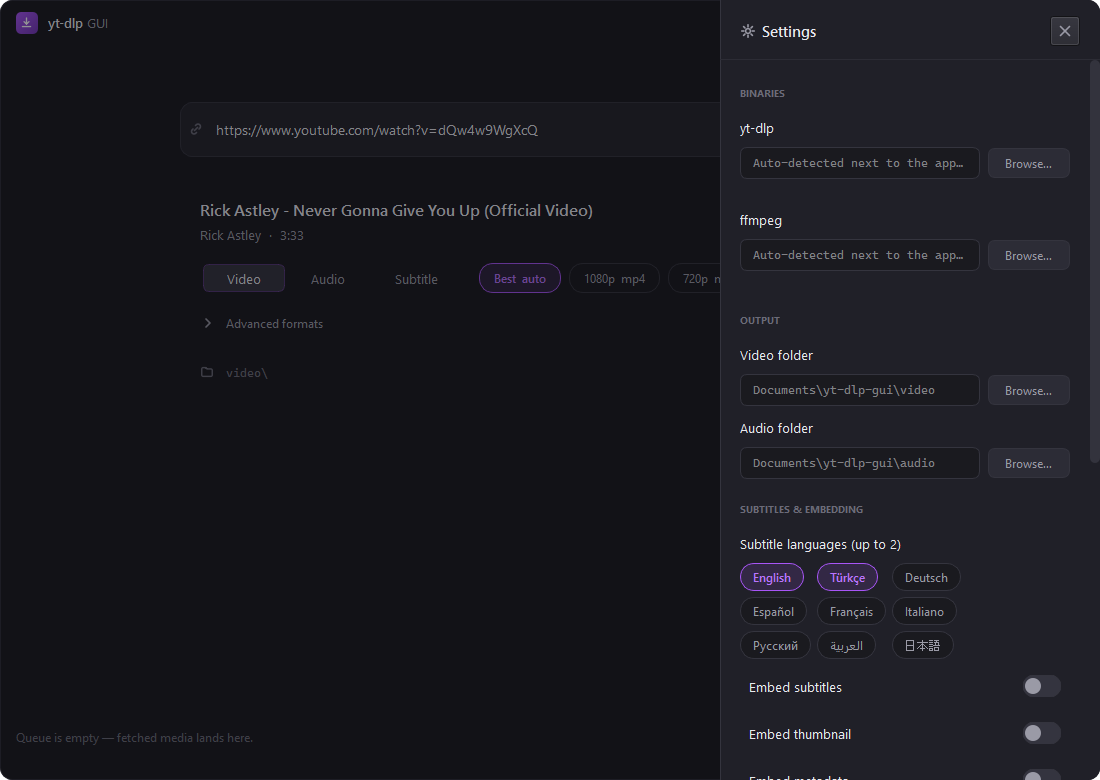
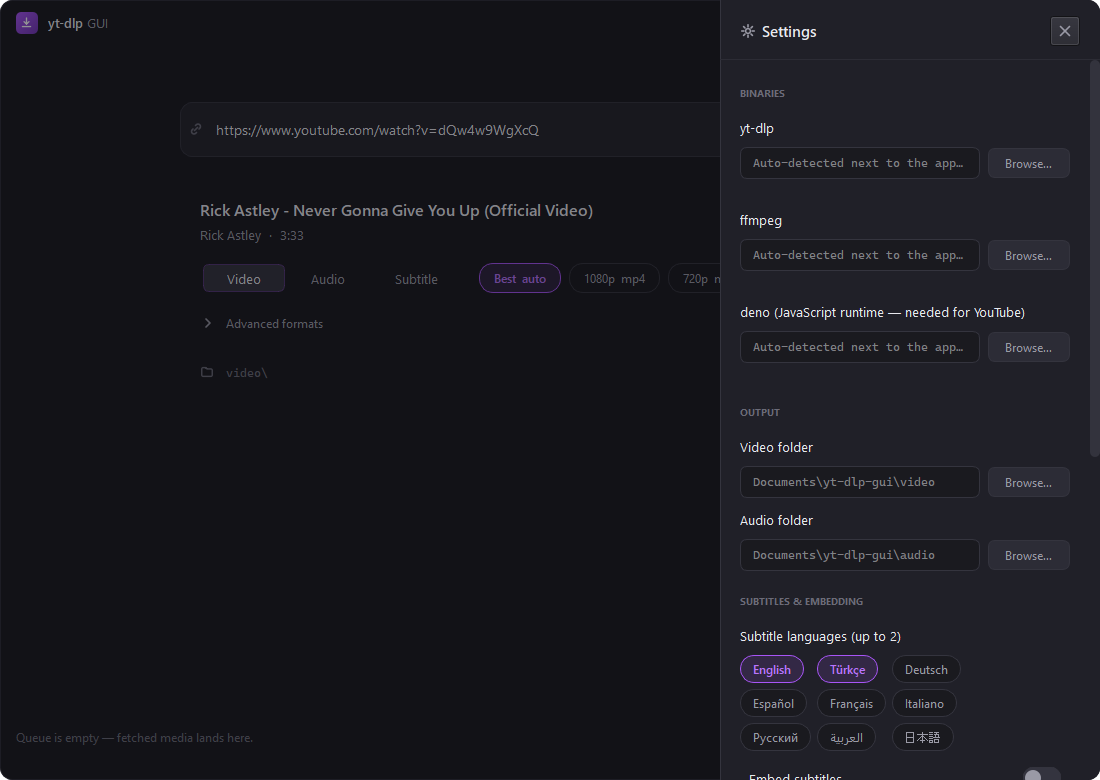
docs: sequential downloads; refresh screenshots and add a playlist shot
- Queue docs, site home, README and architecture describe one-at-a-time downloads.
- tools/screenshots.py works with the playlist-aware fetcher again and adds
  playlist.png; screenshots regenerated (settings now shows deno).

diff --git a/tools/screenshots.py b/tools/screenshots.py
@@ -1,7 +1,7 @@
 """Render app screenshots to docs/assets/screenshots/ without a real download.
 
 Builds the real MainWindow with a mock fetcher (sample metadata) and grabs the
-window to PNG in a few states. Run from the repo root:
+window to PNG in a few states (empty, fetched video, settings, playlist). Run from the repo root:
 
     python tools/screenshots.py
 """
@@ -39,9 +39,33 @@ class _MockRunner:
     def cancel(self) -> None:
         pass
 
+    def output_files(self) -> list[Path]:
+        return []
+
 
 def _runner_factory() -> _MockRunner:
     return _MockRunner()
+
+
+_SAMPLE_PLAYLIST = c.PlaylistInfo(
+    id="PLsample",
+    title="Synthwave Essentials",
+    items=[
+        c.PlaylistItem(id=f"v{i}", title=title, url=f"https://x/v{i}", index=i, duration=dur)
+        for i, (title, dur) in enumerate(
+            [
+                ("Midnight Drive", 245),
+                ("Neon Skyline", 312),
+                ("Chrome Hearts", 198),
+                ("Sunset Boulevard", 276),
+                ("Night Runner", 301),
+                ("Electric Dreams", 233),
+                ("Retrograde", 264),
+            ],
+            start=1,
+        )
+    ],
+)
 
 
 class _MockFetcher:
@@ -52,7 +76,11 @@ class _MockFetcher:
         url: str,
         on_done: Callable[[c.MediaInfo, list[c.FormatInfo]], None],
         on_error: Callable[[c.AppError], None],
+        on_playlist: Callable[[c.PlaylistInfo], None] | None = None,
     ) -> None:
+        if "playlist?list=" in url and on_playlist is not None:
+            on_playlist(_SAMPLE_PLAYLIST)
+            return
         media = c.MediaInfo(
             title="Rick Astley - Never Gonna Give You Up (Official Video)",
             channel="Rick Astley",
@@ -111,6 +139,14 @@ def main() -> int:
     # 3) Settings panel.
     window.toggle_settings(True)
     _save(window, app, "settings.png")
+    window.toggle_settings(False)
+
+    # 4) A playlist link: the checklist card (one video unticked).
+    url = "https://www.youtube.com/playlist?list=PLsample"
+    window.omni.input.setText(url)
+    window._on_fetch(url)  # noqa: SLF001
+    window.playlist_card.set_checked(2, False)
+    _save(window, app, "playlist.png")
 
     return 0
 

diff --git a/docs/user-guide.md b/docs/user-guide.md
@@ -35,9 +35,11 @@ The media card has three modes:
 
 ## The download queue
 
-- Up to **2 concurrent** downloads; the rest wait and auto-start as slots free up.
+- Downloads run **one at a time, in queue order**; the next one starts as soon as the current
+  one finishes (done, failed or cancelled). Downloading several videos at once made YouTube
+  refuse some of them (HTTP 403), so the queue trades speed for reliability.
 - **Cancel** a job — its partial files (`.part`, `.ytdl`, fragments) are cleaned up, scoped to
-  that job so a concurrent download is never touched.
+  that job so other files in the folder are never touched.
 - **Retry** re-runs the job. (Cancelled or failed jobs have their partial files removed, so a
   retry downloads again from the start.)
 - Failed downloads show yt-dlp's actual error line (full raw error on hover).
@@ -74,7 +76,7 @@ All path fields below are **read-only — set them with Browse** (you can't mist
 - **Output** — separate **Video** and **Audio** folders; default `Documents\yt-dlp-gui\video` /
   `\audio`, Browse to change.
 - **Subtitles & embedding** — up to 2 languages; embed subtitles / thumbnail / metadata.
-- **Performance** — concurrent fragments + max concurrent downloads (takes effect immediately).
+- **Performance** — concurrent fragments (parallel pieces *within* one download).
 - **Cookies** — enable + choose Firefox or a cookies.txt file.
 - **About** — app version, author credit, and a link to the yt-dlp project.
 

diff --git a/docs/architecture.md b/docs/architecture.md
@@ -40,10 +40,11 @@ tests/                 # pytest (unit / integration[@network] / ui[pytest-qt]) +
 1. User pastes a URL → **FormatFetcher** runs `yt-dlp -J` → `(MediaInfo, list[FormatInfo])`,
    or a `PlaylistInfo` (shown as a checklist) when the link is a playlist.
 2. User picks a quality/format → a `DownloadOptions` is built and queued by **MainWindow**.
-3. For each free slot (`max_concurrent_downloads`, re-read on every pump so Settings apply
-   immediately), the queue uses a **RunnerFactory** to create a **YtDlpRunner**, wires
-   `set_callbacks(...)`, and `start()`s it. The runner reports `on_finished` exactly once —
-   including when yt-dlp fails to start — so a slot is always freed.
+3. Downloads run **one at a time** (`_MAX_CONCURRENT = 1` in `main_window.py`; not a
+   setting). When nothing is running, the queue uses a **RunnerFactory** to create a
+   **YtDlpRunner** for the next pending job, wires `set_callbacks(...)`, and `start()`s it. The
+   runner reports `on_finished` exactly once — including when yt-dlp fails to start — so the
+   queue always moves on to the next job.
 4. The runner parses `--progress-template` lines into `Progress` and reports via callbacks;
    `stderr` is mapped to `AppError` on failure.
 5. The UI's **Download Dock** renders progress (QPainter rings); the queue panel lists details.

diff --git a/docs/index.md b/docs/index.md
@@ -54,8 +54,8 @@ downloads prefer AAC audio so the resulting mp4 plays everywhere.
 <span class="ytg-icon">:material-tray-full:</span>
 <div class="ytg-body" markdown>
 ### Download queue
-Up to 2 concurrent downloads with cancel and retry. Cancelling (or a failed job) cleans up the
-partial files it left behind.
+Downloads run one at a time, in order, with cancel and retry (or **Retry failed** for all at
+once). Cancelling (or a failed job) cleans up the partial files it left behind.
 </div>
 </div>
 
@@ -122,6 +122,8 @@ Update yt-dlp itself (`yt-dlp -U`) from inside the app and see the result inline
 ![First launch — paste a link](assets/screenshots/empty.png)
 
 ![Fetched media — pick a format and download](assets/screenshots/app.png)
+
+![Playlist — tick the videos you want](assets/screenshots/playlist.png)
 
 ![Settings](assets/screenshots/settings.png)
 

diff --git a/README.md b/README.md
@@ -81,8 +81,9 @@ powershell -ExecutionPolicy Bypass -File tools\build_installer.ps1
 ## Features
 - Real-format selector (quality chips + advanced format table); video downloads prefer AAC audio
   so the resulting mp4 plays everywhere
-- Download queue (up to 2 concurrent), cancel / retry; cancelling (or a failed job) cleans up the
-  partial files it left behind
+- Download queue — one download at a time, in order (reliable with YouTube); cancel / retry, plus
+  **Retry failed** / **Clear failed** for the whole queue; cancelling (or a failed job) cleans up
+  the partial files it left behind
 - **Playlists** — paste a playlist link (or open the playlist from a video that's part of one),
   tick the videos you want, and each is queued as its own job into
   `<Video|Audio>\<Playlist name>\01 - Title.ext`

diff --git a/CHANGELOG.md b/CHANGELOG.md
@@ -43,6 +43,9 @@ and this project adheres to [Semantic Versioning](https://semver.org/spec/v2.0.0
   instead of failing every fetch/download with a generic error.
 
 ### Changed
+- Downloads now run **one at a time**, in queue order. Several parallel downloads (e.g. a whole
+  playlist) made YouTube answer HTTP 403 for some of them. The "Max concurrent downloads"
+  setting is gone; a value saved by 0.1.0 is ignored.
 - yt-dlp / ffmpeg are looked up **only** in Settings → Binaries and the app's own (install)
   folder. `C:\yt-dlp` and PATH are no longer searched; a missing yt-dlp now fails the fetch /
   download with a clear message instead of trying whatever `yt-dlp` is on PATH.
